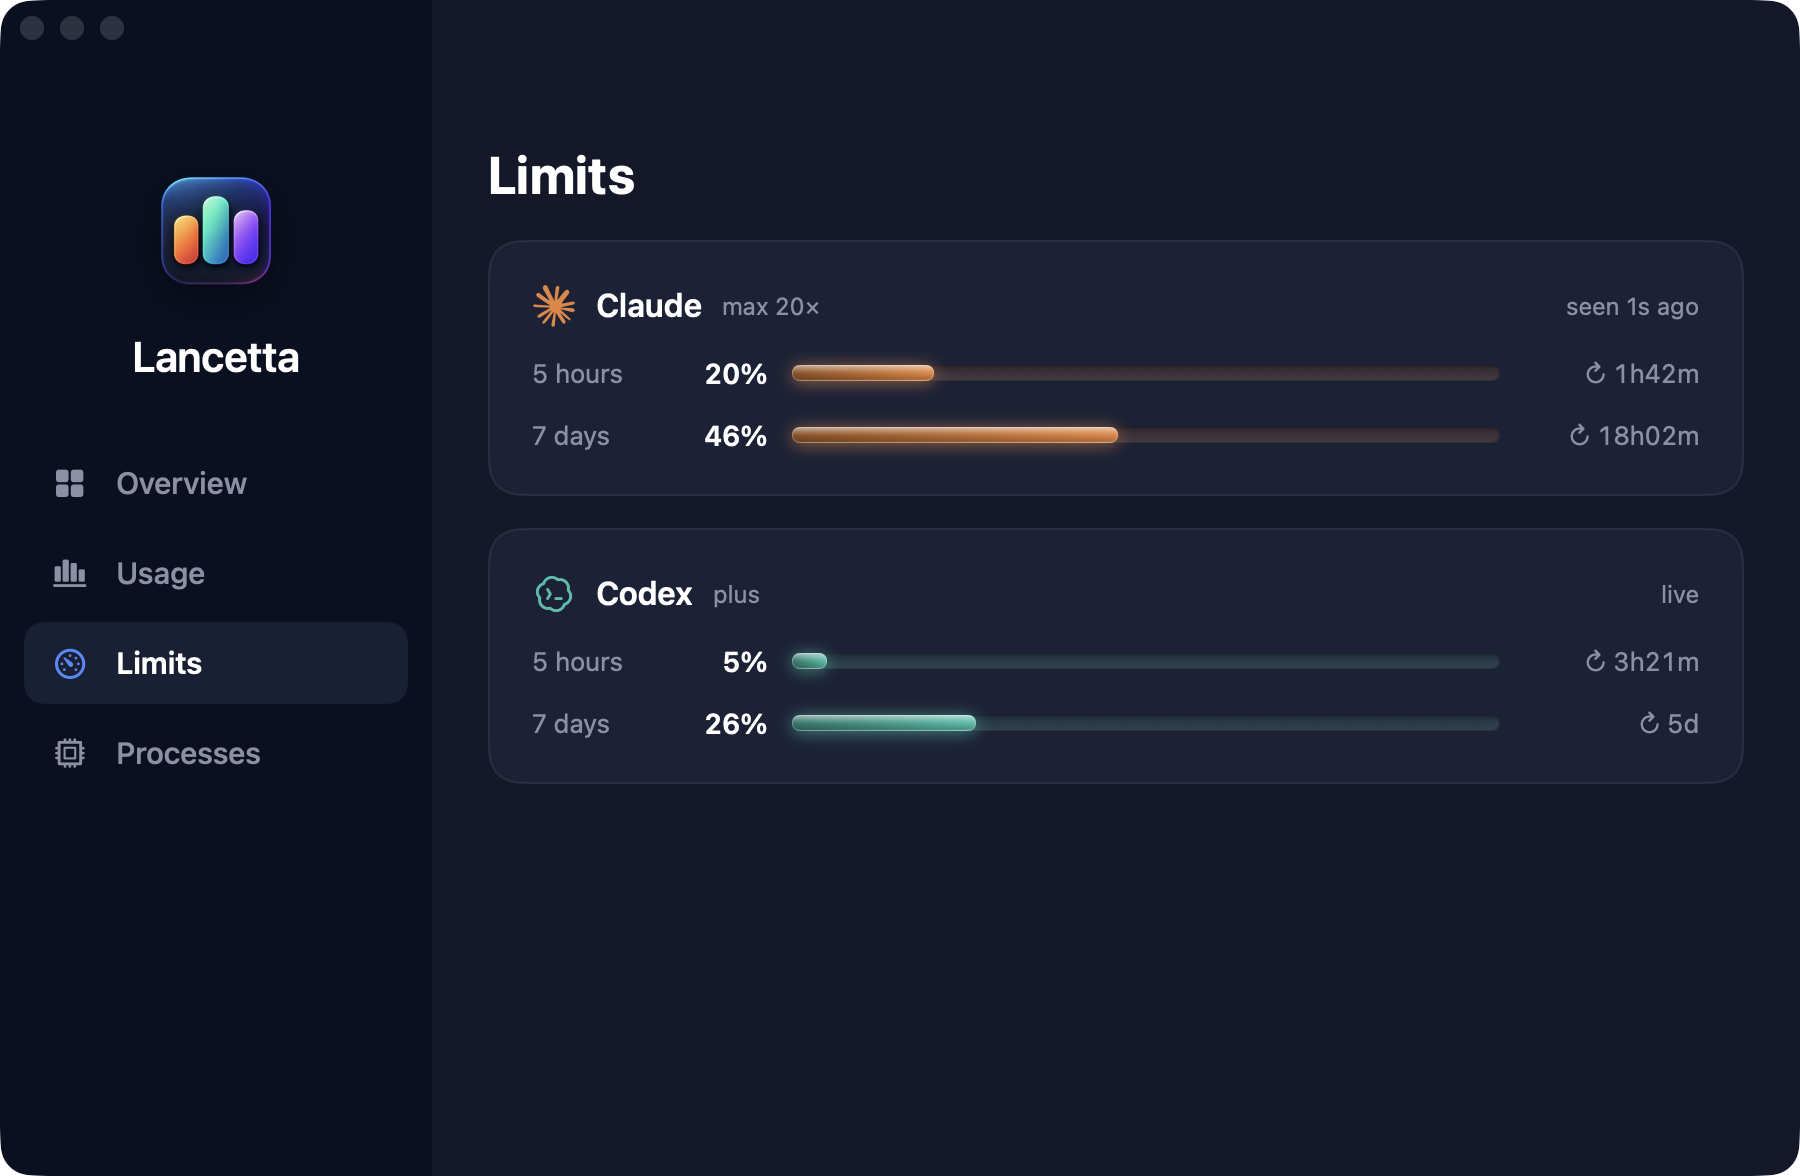
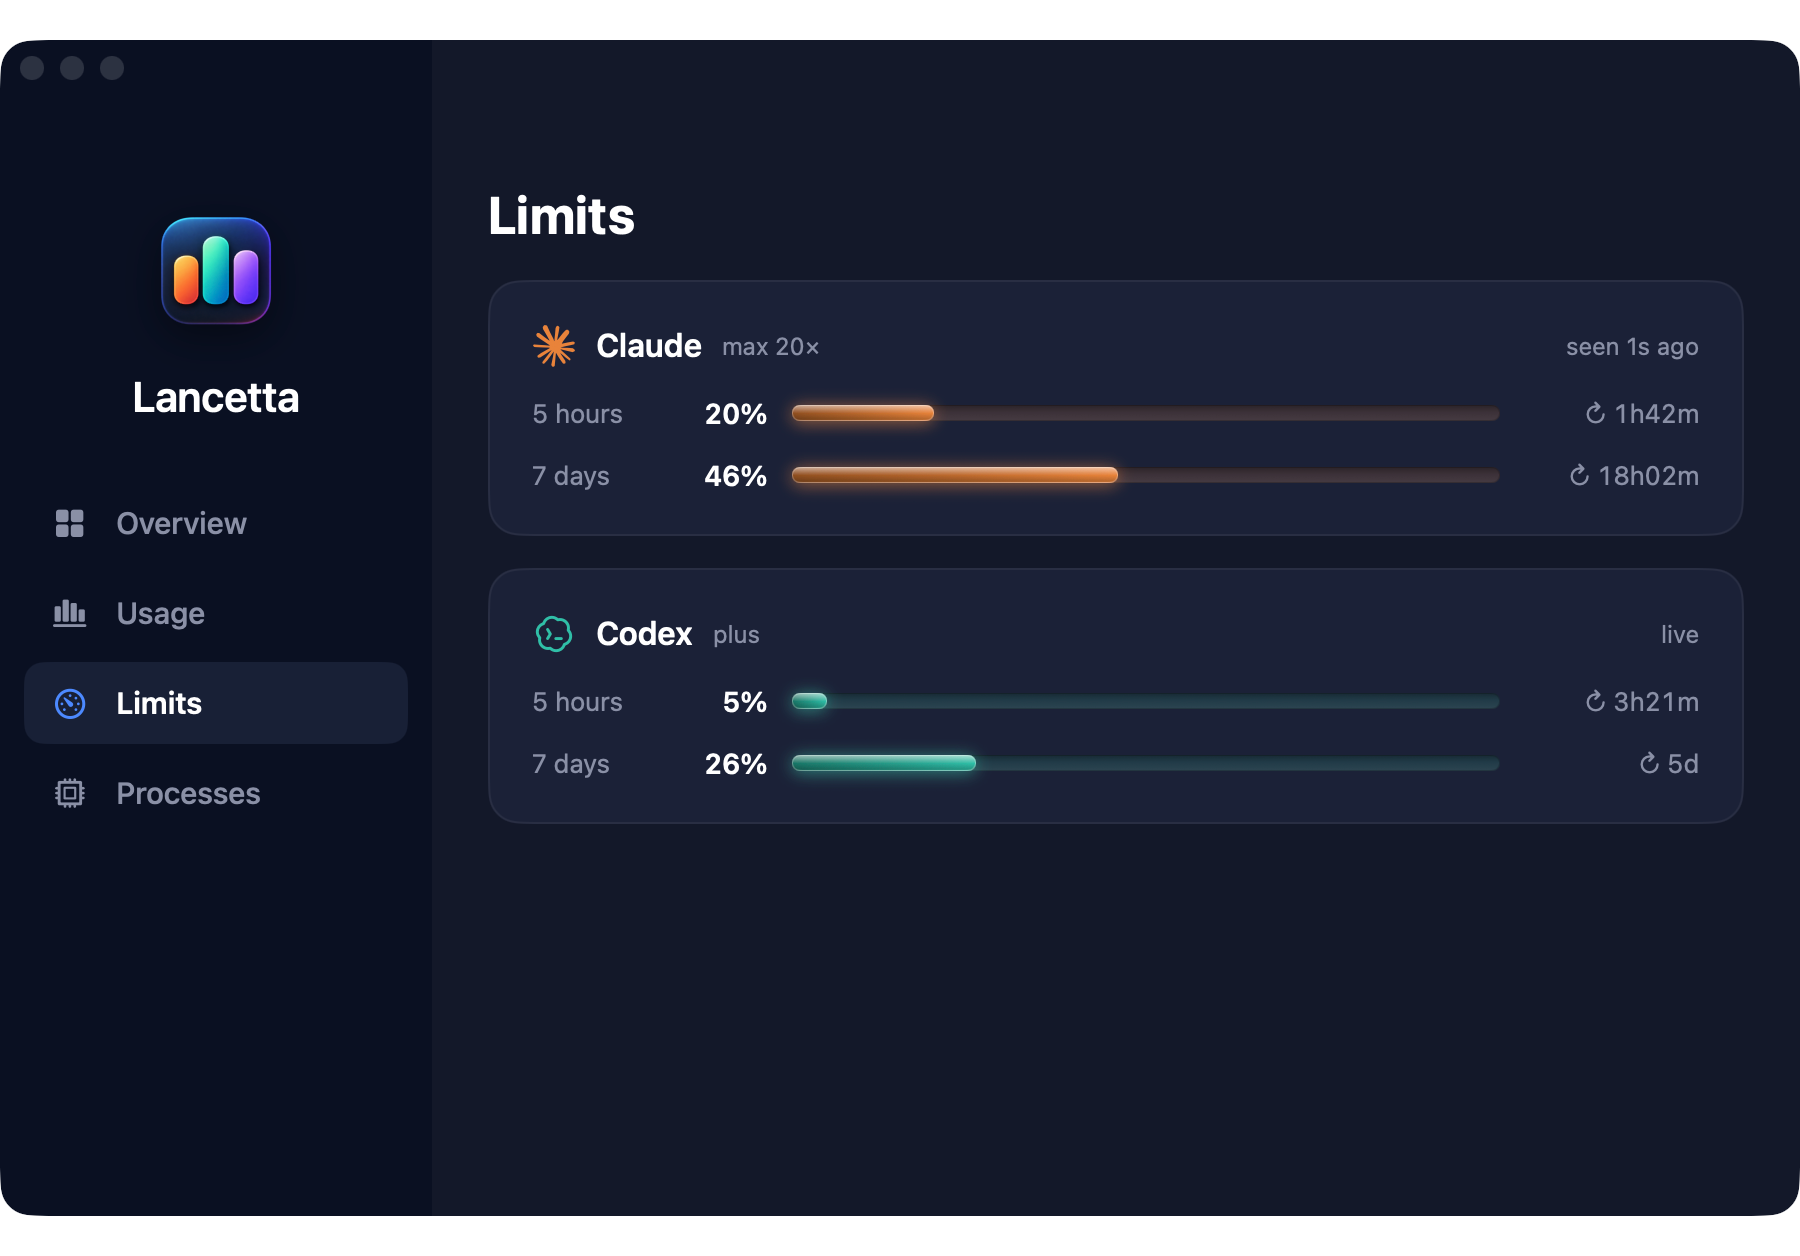
feat(hero): the Processes pane, which had no picture anywhere
It is the feature that acts on the machine rather than on a number, and the
site had no photograph of it: not in the hero, not on The Window, not on the
page written entirely about it. The reason is that every row of that pane
draws a working directory, and on a real Mac those are the developer's own
folders — so the app grew LANCETTA_DEMO_TREES, which draws an invented
machine through the real parser (gfazioli/Lancetta#22).

The frame closes the window's sequence the way the app's sidebar does, and
the copy says the thing that makes anyone open the pane: nobody ever closes
them. The home page's feature card now carries the measurement the docs page
has always had — 28 processes holding 2.68 GB, 12 of 14 trees unreachable —
because the mechanism alone reads as housekeeping.

The four window captures are normalised to one canvas, and that is not
tidying. They are all 900-point-wide windows and the hero shows them in one
box, so a difference in HEIGHT alone made the window visibly change width as
the reader scrolled from pane to pane — the same defect reported for Overview
against Usage, arriving by a second route. They cannot be re-shot at one size
either: the window's minimum grew to 628 points and the three published
earlier are 588. So scripts/canvas.swift centres each one on a common
transparent canvas, at 1:1 with no resampling, which keeps every window at its
true size AND at one scale. Measured in Chrome: all four now render at
848x592, where they were 906 against 855.

diff --git a/scripts/canvas.swift b/scripts/canvas.swift
@@ -1,0 +1,71 @@
+#!/usr/bin/env swift
+import AppKit
+
+/*
+ * Centre a PNG on a transparent canvas of a given size, without resampling it.
+ *
+ *   swift scripts/canvas.swift <in.png> <out.png> <width> <height>
+ *
+ * The hero shows four captures of the same window in the same box, one per frame,
+ * cross-fading in place. `object-fit: contain` scales each one to fit, so a capture
+ * with a different aspect ratio is drawn at a different scale -- and since these are
+ * all 900-point-wide windows, a difference in HEIGHT alone made the window visibly
+ * change width as the reader scrolled from one pane to the next. That is the defect
+ * the user reported for Overview against Usage, arriving by a second route.
+ *
+ * The heights differ because the window's minimum grew: the three panes published
+ * earlier are 588 points tall and the app will not open below 628 any more. So they
+ * cannot simply be re-shot at one size, and scaling one to match would draw a window
+ * at proportions it does not have.
+ *
+ * Padding is the answer that keeps every window at its true size AND at one scale:
+ * the images become one canvas, `contain` therefore gives them all the same box, and
+ * each window is drawn 1:1 within it -- same width, because they are the same width,
+ * and a taller window simply reaches further up and down. The added margin is fully
+ * transparent, so nothing appears anywhere.
+ *
+ * It draws at 1:1 into a canvas of exactly the pixel size asked for -- no `sips -z`,
+ * which resamples, and no `NSImage.size`, which is in POINTS and would silently halve
+ * a Retina capture.
+ */
+
+let args = Array(CommandLine.arguments.dropFirst())
+guard args.count == 4,
+      let width = Int(args[2]), let height = Int(args[3]), width > 0, height > 0 else {
+    print("usage: swift scripts/canvas.swift <in.png> <out.png> <width> <height>")
+    exit(2)
+}
+
+guard let image = NSImage(contentsOfFile: args[0]),
+      let source = image.cgImage(forProposedRect: nil, context: nil, hints: nil) else {
+    FileHandle.standardError.write("cannot read \(args[0])\n".data(using: .utf8)!)
+    exit(1)
+}
+
+guard source.width <= width, source.height <= height else {
+    FileHandle.standardError.write(
+        "\(args[0]) is \(source.width)x\(source.height), larger than the \(width)x\(height) canvas\n"
+            .data(using: .utf8)!)
+    exit(1)
+}
+
+guard let ctx = CGContext(data: nil, width: width, height: height, bitsPerComponent: 8,
+                          bytesPerRow: 0, space: CGColorSpaceCreateDeviceRGB(),
+                          bitmapInfo: CGImageAlphaInfo.premultipliedLast.rawValue) else {
+    FileHandle.standardError.write("cannot make a \(width)x\(height) context\n".data(using: .utf8)!)
+    exit(1)
+}
+
+// Centred, and on an EVEN offset where the remainder allows: an odd inset on a 2x
+// capture lands the window on a half-point in CSS and softens its hairline border.
+let x = ((width - source.width) / 2) & ~1
+let y = ((height - source.height) / 2) & ~1
+ctx.draw(source, in: CGRect(x: x, y: y, width: source.width, height: source.height))
+
+guard let out = ctx.makeImage(),
+      let data = NSBitmapImageRep(cgImage: out).representation(using: .png, properties: [:]) else {
+    FileHandle.standardError.write("cannot encode the result\n".data(using: .utf8)!)
+    exit(1)
+}
+try data.write(to: URL(fileURLWithPath: args[1]))
+print("\(args[0]) \(source.width)x\(source.height) -> \(args[1]) \(width)x\(height) at \(x),\(y)")

diff --git a/components/HeroStage/HeroStage.tsx b/components/HeroStage/HeroStage.tsx
@@ -124,6 +124,17 @@ const frames: Frame[] = [
     linkLabel: 'How it reads each agent',
     reading: windowSession,
   },
+  {
+    src: '/screenshot-window-processes.png',
+    alt: 'The Processes pane: four Codex trees with the directory each one was started for, what it is holding and how many children it has, three of them marked as orphans, and a Reclaim button over the total',
+    anchor: 'centre',
+    eyebrow: 'What they leave behind',
+    title: 'Nobody ever closes them.',
+    body: 'Every folder an agent works in leaves a background tree, and one whose folder is gone will never be shut down by anything. Lancetta lists them, and shows you that list before it closes a single one.',
+    href: '/docs/memory',
+    linkLabel: 'What accumulates, and why nothing reaps it',
+    reading: windowSession,
+  },
 ];
 
 /*

diff --git a/components/Welcome/Welcome.tsx b/components/Welcome/Welcome.tsx
@@ -133,7 +133,7 @@ const features: Feature[] = [
     icon: IconTrash,
     title: 'Reclaim the memory',
     description:
-      'Agents leave a background tree behind for every folder they worked in. Lancetta lists the ones serving folders that no longer exist and frees them — showing you the list first, and never touching a live one.',
+      'Agents leave a background tree behind for every folder they worked in, and nothing ever reaps the ones whose folder is gone: 28 processes holding 2.68 GB on one Mac, 12 of 14 trees unreachable. Lancetta finds them and frees them — showing you the list first, and never touching a live one.',
     color: 'indigo',
     href: '/docs/memory',
   },
